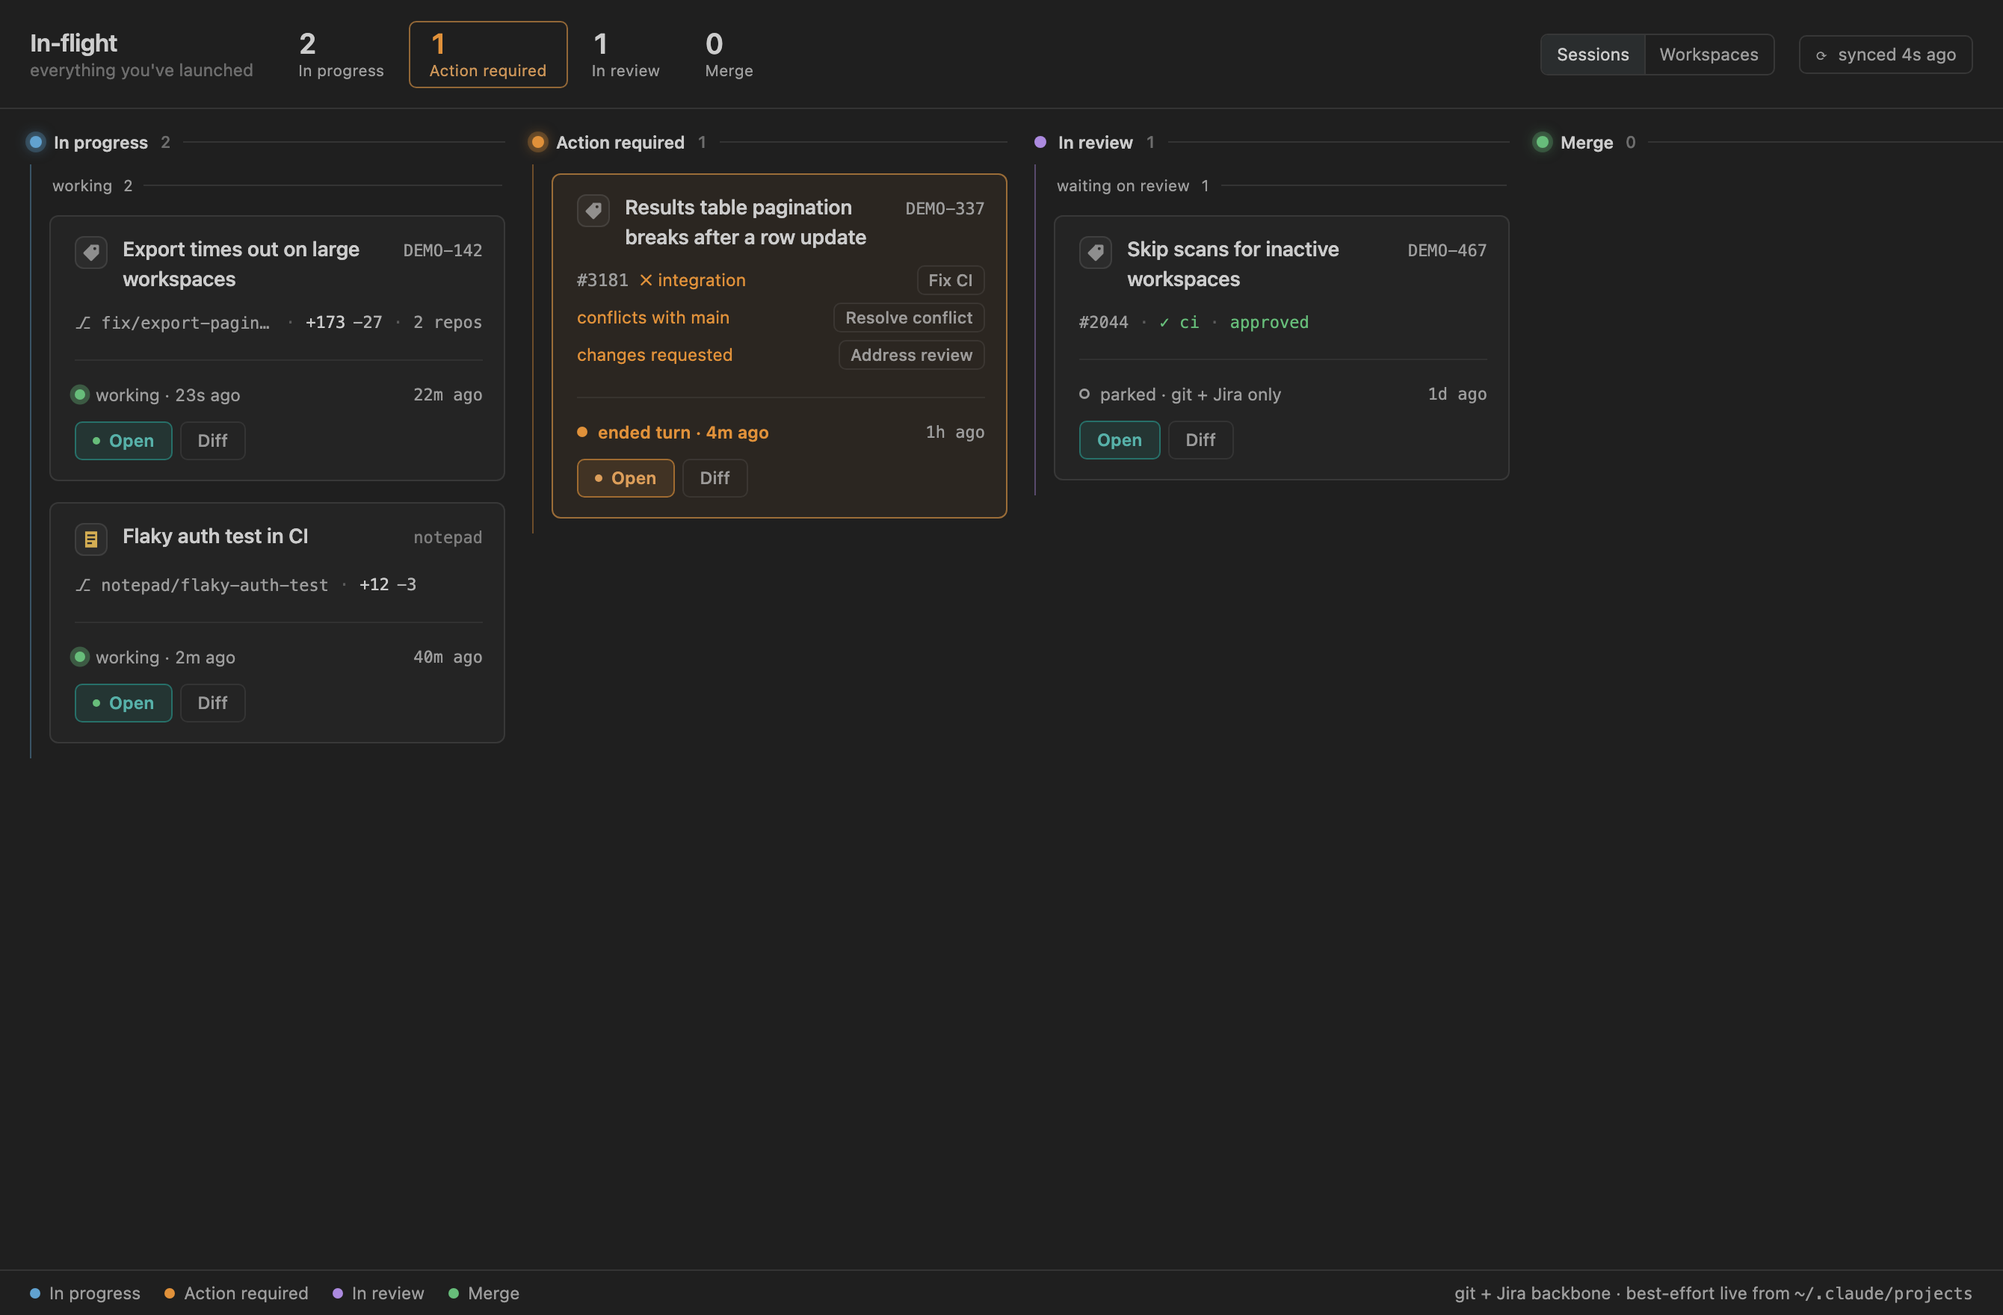
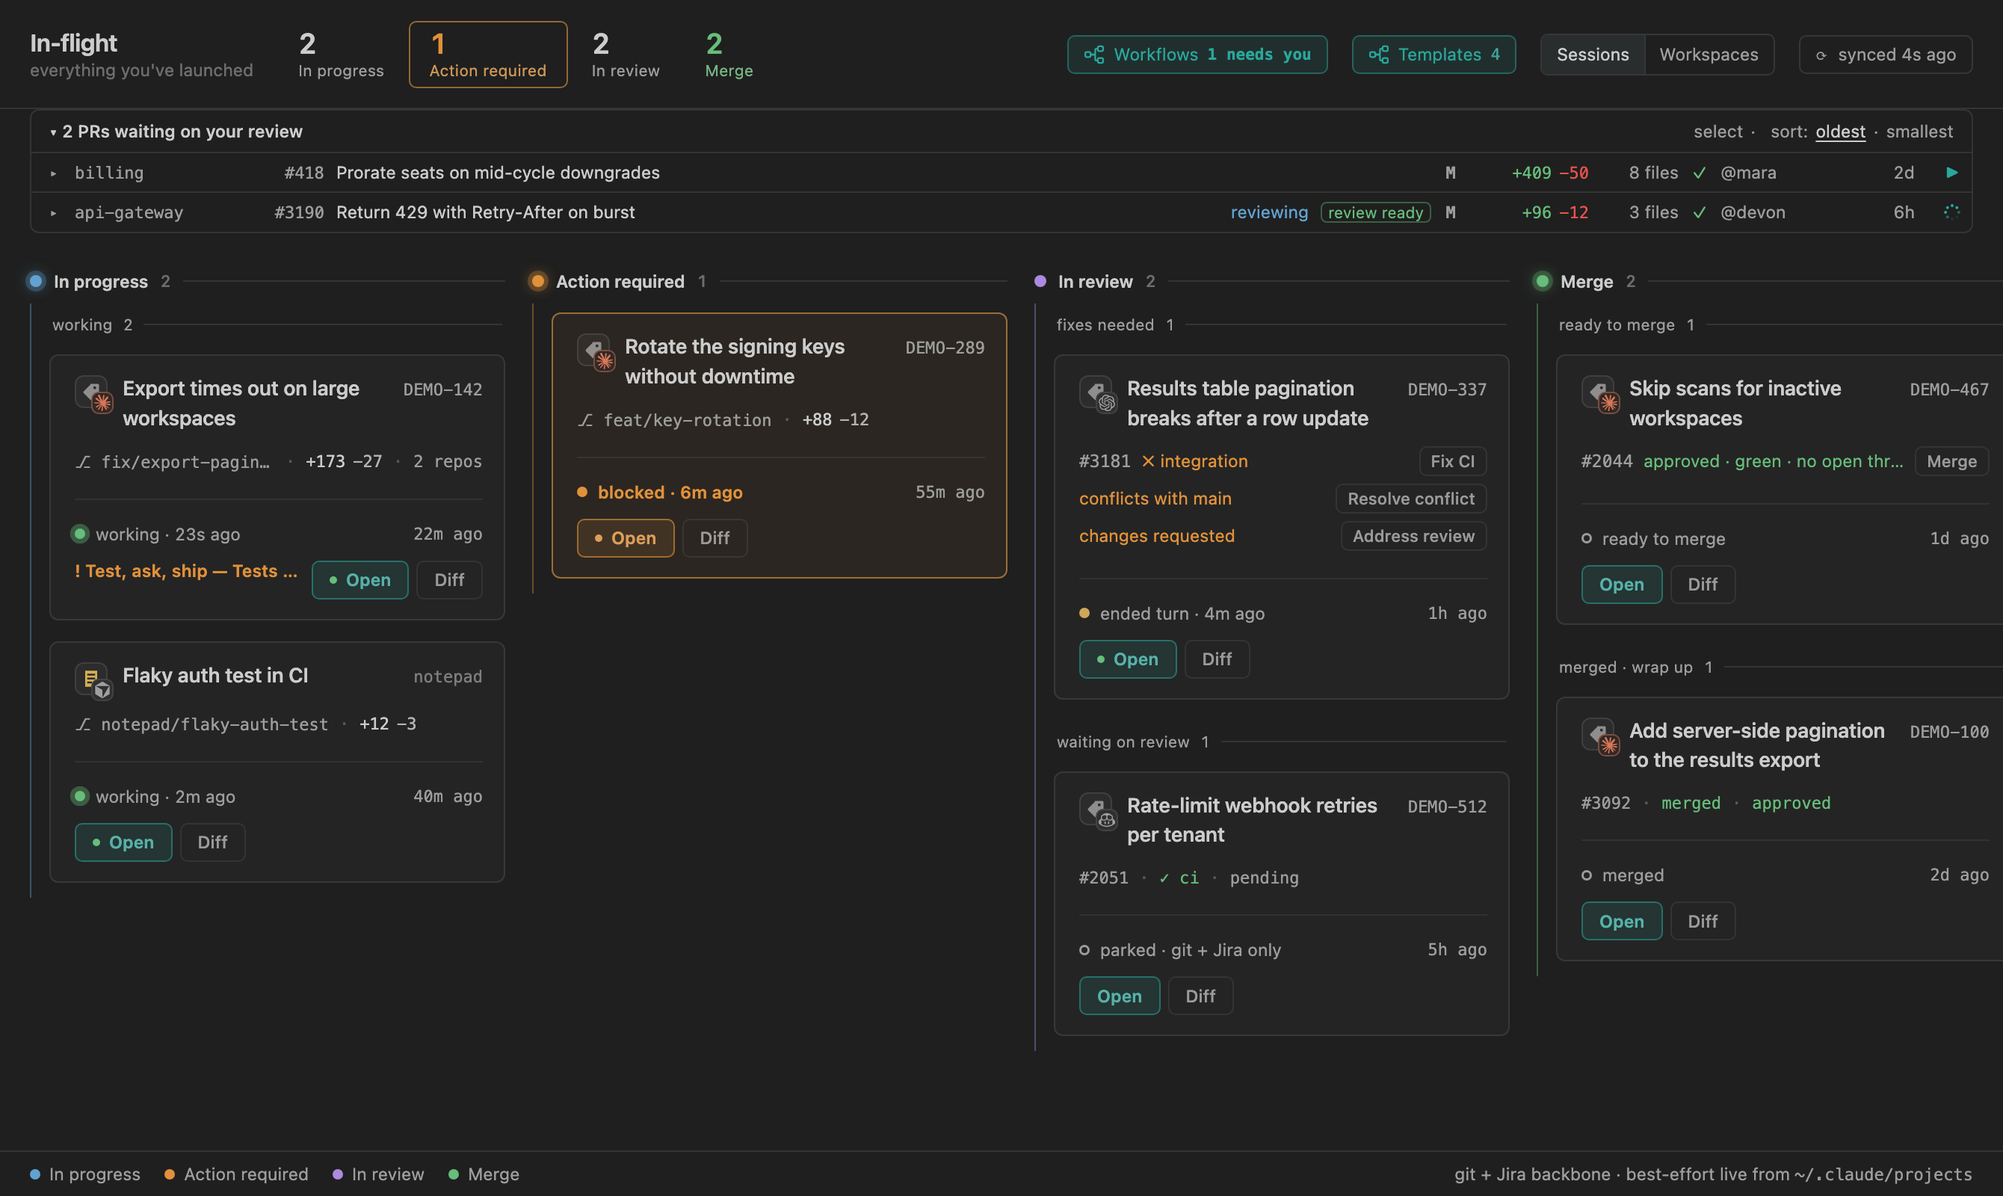
docs: re-shoot the README screenshots and show what the extension does today
The four screenshots predated Workflows, tool marks on cards, the review
queue's play button, Merge from a card and the Action required column's new
meaning. All are re-shot from the current build; the Deck's now shows the
review queue and a card carrying a workflow, and media/workflow.png shows a
card drawer stopped at a gate with Approve and Reject.

The README gains a "What you can do" list, a Workflows section, and names
Codex, Agile Accelerator and Bitbucket beside Claude Code, Jira and GitHub.
The settings table adds taskSource and orchestrator. No behaviour changes.

diff --git a/README.md b/README.md
@@ -6,8 +6,9 @@
   <img src="media/logo-neutral.png" alt="Agent Flow Deck" width="280">
 </picture>
 
-<p><strong>A task pool in your sidebar.</strong> Take a Jira ticket and it opens the repos
-that ticket touches, with a coding tool already briefed — Claude Code, Copilot, or Cursor.</p>
+<p><strong>Run your coding sessions like a fleet.</strong> Take a ticket and the repos it touches
+open with Claude Code, Copilot, Cursor or Codex already briefed. Watch every session, PR and
+review on one board — and let a workflow test, ask and notify while you work on the next one.</p>
 
 [![CI](https://github.com/oznasi1/agent-flow/actions/workflows/ci.yml/badge.svg)](https://github.com/oznasi1/agent-flow/actions/workflows/ci.yml)
 [![VS Marketplace version](https://img.shields.io/github/package-json/v/oznasi1/agent-flow?label=VS%20Marketplace&color=007ACC)](https://marketplace.visualstudio.com/items?itemName=Oznasi1.oznasi1-agent-flow)
@@ -20,36 +21,60 @@ that ticket touches, with a coding tool already briefed — Claude Code, Copilot
 
 [Quick start](#quick-start) · [Full guide](docs/GUIDE.md) · [Settings](docs/SETTINGS.md) · [Privacy](docs/PRIVACY.md) · [Changelog](CHANGELOG.md) · [Report an issue](#feedback)
 
-<img src="media/screenshot.png" alt="The Agent Flow Deck panel in the VS Code sidebar: a Tasks / Notepad tab bar, segmented task, size and status lenses, a repo multiselect and a title search, then task cards with per-card Take and Address PR actions." width="420" />
+<img src="media/screenshot.png" alt="The Agent Flow Deck panel in the VS Code sidebar: a Tasks / Notepad tab bar with an Explore button and an open-window gauge, segmented sprint, size and status lenses, a repo filter and a title-or-ticket search, then task cards with per-card Take and Address PR actions." width="420" />
 
 </div>
 
 ---
 
-Agent Flow Deck turns *"what should I work on?"* into a workspace with a session already primed.
+Agent Flow Deck turns *"what should I work on?"* into a workspace with a session already primed,
+and *"what is everything doing?"* into one board.
 
-Pick a Jira task → it infers which repos the task touches → opens them as a workspace →
+Pick a task → it infers which repos the task touches → opens them as a workspace →
 seeds a task brief and pre-fills your session with the plan. You land ready to orchestrate,
-not ready to set up.
+not ready to set up. Then the Deck keeps every launched session, its diff, its PR and its
+CI in view, and a workflow can carry a card from "tests are green" to "ask me before the PR"
+without you watching it.
 
-Which tool is your choice — **Claude Code** by default, **GitHub Copilot** in VS Code,
-**Cursor's** own agent in Cursor, or `ask` to pick per launch
-(`agentFlow.agentProvider`). Your pull requests can come from **GitHub** or **GitLab**
-(`agentFlow.forge`).
+## What you can do
+
+- **Take a ticket into a primed session** — from Jira or Salesforce Agile Accelerator
+  (`agentFlow.taskSource`), with the repos already selected and the brief on disk.
+- **Pick your tool per install or per launch** — Claude Code, GitHub Copilot, Cursor, or the
+  OpenAI Codex CLI; `ask` chooses each time (`agentFlow.agentProvider`).
+- **Launch several tasks in parallel**, each in its own git worktree and branch, as separate
+  windows or tabs in one.
+- **Work from a note, not a ticket** — the Notepad starts a session from a line of text and a
+  pasted screenshot.
+- **See the whole fleet on the Deck** — In progress · Action required · In review · Merge, each
+  card with its live session state, diff, PR, CI and ticket status, and the tool driving it.
+- **Act from the card** — Fix CI, Resolve conflict, Address review, and (opt-in) Merge a
+  provably green PR, each behind a confirmation.
+- **Clear your review queue** — every PR waiting on you, with **Review with Claude Code** (or
+  your tool) on each row, or hand a batch of them to sessions in one gesture.
+- **Attach a workflow to a card** — test when the session ends its turn, ask you at a gate,
+  notify when it's merged, with deadlines, retries and a spend ceiling. Off by default.
+- **Browse everything Claude Code can do here** — the Marketplace searches your skills, slash
+  commands, agents, hooks and plugins and renders each one's file.
+- **Keep it yours** — GitHub, GitLab or Bitbucket via your own CLI login; Jira credentials in
+  SecretStorage; read-only unless you press a button that says otherwise.
 
 ## What it does
 
 ### Tasks — the pool
 
-Your Jira project as a filterable pool: **My sprint · Unassigned · Mine · Sprint ·
-Backlog**, with a size lens and a fuzzy title search. Click a card and the repos the
-ticket touches are already selected — read from its components, labels and text, matched
-against your local checkouts. Press **▶ Take** and Agent Flow Deck writes a
+Your project as a filterable pool: **My sprint · Unassigned · Mine · Sprint · Backlog**
+(only the lenses your task source has), with a size lens, a status lens, a repo filter and
+a fuzzy search that also takes a ticket number or a pasted ticket link. Click a card and
+the repos the ticket touches are already selected — read from its components, labels and
+text, matched against your local checkouts. Press **▶ Take** and Agent Flow Deck writes a
 `.pick-task/TASK.md` brief into each repo, generates a workspace, and pre-fills your
 session with the prompt; you press Enter.
 
 Tick several cards and **Launch in parallel** gives every task its own git worktree and
-branch, either in separate windows or stacked as tabs in one.
+branch, either in separate windows or stacked as tabs in one. **Explore** opens a session
+with no ticket at all, and the list can refetch itself on a timer
+(`agentFlow.refetchIntervalMinutes`).
 
 ### Notepad — work that never had a ticket
 
@@ -65,21 +90,51 @@ session reads what you saw instead of your description of it.
 
 ### Deck — the in-flight board
 
-<img src="media/deck.png" alt="The Agent Flow Deck: a four-column in-flight board (In progress, Action required, In review, Merge) with counts in the header, a Sessions / Workspaces lens and a refresh. Each card shows its branch, per-repo diff stats, a live session status, PR and CI state, Jira status, and Open / Diff actions." />
+<img src="media/deck.png" alt="The Agent Flow Deck: a review queue of two pull requests waiting on your review with a Review with Claude Code play button, above a four-column in-flight board (In progress, Action required, In review, Merge). Each card shows the tool driving it, its branch, diff stats, live session status, PR and CI state, and Open / Diff actions; one carries a workflow chip, one a Merge button, and the header holds Workflows and Templates buttons." />
 
 Everything you've launched, in a pipeline — **In progress · Action required · In review ·
 Merge**, attention rising left to right. Each card carries the live state: what its session
-is doing right now (read from Claude Code's own transcripts), the diff, the PR with its CI
-and review decision, and the Jira status. The two kinds of "you're needed" stay apart:
-**Action required** means a session stopped and is asking you, while a PR with red CI,
-requested changes or a conflict lands in **In review**'s `fixes needed` lane. **Open**
-focuses that window if it's already open; **Diff** shows the working tree.
+is doing right now (read from Claude Code's own transcripts), which tool is driving it, the
+diff, the PR with its CI and review decision, and the ticket status. The two kinds of
+"you're needed" stay apart: **Action required** means a session stopped and cannot resume
+on its own, while a PR with red CI, requested changes or a conflict lands in **In review**'s
+`fixes needed` lane with **Fix CI**, **Resolve conflict** and **Address review** right on
+the card. A PR that is approved, green and mergeable reaches **Merge**, and with
+`agentFlow.mergeWrites` on, a **Merge** button that only appears when every fact is
+provably green. **Open** focuses that window if it's already open; **Diff** shows the
+working tree. The activity-bar icon badges how many sessions are waiting on you, and
+`agentFlow.notifyOnActionRequired` turns that into a notification.
 
 Above the columns sits your **review queue**: every open PR waiting on your review, sorted
 by oldest or smallest, with **Review with …** (the button names your configured tool, so it
-reads **Review with Claude Code**, **Review with Cursor**, or **Review with Copilot**) — a
-play button on every row, no need to open it — to check one out and have the diff read
-for you.
+reads **Review with Claude Code**, **Review with Cursor**, **Review with Copilot** or
+**Review with Codex**) — a play button on every row — to check one out in a worktree and
+have the diff read for you. **Select** several and hand them all to sessions at once; a
+`review ready` chip says whose findings are waiting to be read.
+
+### Workflows — let the board act for you
+
+<img src="media/workflow.png" alt="A Deck card's detail drawer with its Workflow block open: the workflow Test, ask, ship is two of three steps in and waiting on you. Step one, the session ended its turn, ran npm test with an Output button; step two, the command succeeded, asked the gate Tests are green — open a PR?; step three waits for your answer with Approve and Reject buttons. Below it the card's branch, per-repo diffs, pull requests and two live sessions." />
+
+Off by default (`agentFlow.orchestrator`), because an armed workflow eventually starts
+sessions and runs commands on its own. Turn it on and every card gets a drawer where you
+attach a **workflow**: a small graph of rules, each waiting on a condition — the session
+ended its turn, CI passed, the PR merged, a command succeeded or printed a given text, the
+tree is clean, the ticket is done — and each doing whatever the node it points at says:
+**launch** a planned session in a fresh worktree, **seed** a second session into an
+existing one, **run** a shell command, **notify** you in the editor, **ask** you at a gate
+with Approve and Reject, or start a saved template as a **subflow**.
+
+Three starters ship built in — **Ship it**, **Test & notify**, **Review only** — and anything
+you draw can be saved as a **template** and attached to the next card in one click. A rule
+can carry a deadline (**WITHIN**) and an opt-in **RETRY**; a whole workflow can carry a
+**spend ceiling** in sessions and commands, or a **token ceiling**; a **dry run** says what
+would fire before you arm it. A gate can also post its question on the card's pull request
+and take the answer from whoever you named there. A workflow asks before its first launch
+and before each distinct command, then runs unattended, and **Schedule the Orchestrator
+Tick…** keeps it watching with the editor closed. The full rulebook is in
+[docs/GUIDE.md](docs/GUIDE.md#the-deck--your-in-flight-board) and
+[docs/ORCHESTRATOR_COMMANDS.md](docs/ORCHESTRATOR_COMMANDS.md).
 
 ### Marketplace — everything Claude Code can do here
 
@@ -90,9 +145,9 @@ plugins you've installed, and the skills, slash commands, agents and hooks insid
 plus whatever you wrote yourself. Search is fuzzy (`revw` finds `/review`), and selecting a
 row renders its file so you can read what something does without opening it.
 
-**More:** the [full guide](docs/GUIDE.md) covers the Deck's Orchestrator drawer, run
-retirement, tracking Claude Code sessions Agent Flow Deck didn't launch, per-task worktrees,
-prompt modes, and Remote Control.
+**More:** the [full guide](docs/GUIDE.md) covers run retirement, tracking Claude Code
+sessions Agent Flow Deck didn't launch, per-task worktrees, prompt modes, child worktrees for
+a ticket with sub-tasks, and Remote Control.
 
 ## Quick start
 
@@ -104,54 +159,59 @@ prompt modes, and Remote Control.
    or **⋯ → Install from VSIX…** in the Extensions view.
 2. **Install a coding tool** — the
    [Claude Code extension](https://marketplace.visualstudio.com/items?itemName=anthropic.claude-code),
-   or GitHub Copilot with `agentFlow.agentProvider: copilot`. With neither, the task brief
-   is still written as a fallback.
+   GitHub Copilot (`agentFlow.agentProvider: copilot`), Cursor's own agent (`cursor`), or the
+   OpenAI Codex CLI (`codex`). With none, the task brief is still written as a fallback.
 3. **Open the Agent Flow Deck icon** in the activity bar and complete the setup — your Jira
    site, project key, and repos directory, then an
    [Atlassian API token](https://id.atlassian.com/manage-profile/security/api-tokens).
-   (Re-run it anytime with **"Run Setup…"**.)
+   (Re-run it anytime with **"Run Setup…"**; Agile Accelerator users set
+   `agentFlow.taskSource` instead — see [docs/CONNECTORS.md](docs/CONNECTORS.md).)
 4. **Pick a task**, check the inferred repos, and press **▶ Take**.
 5. **Land in a primed workspace** — brief on disk, prompt pre-filled. Press **Enter**.
 
 ## Requirements
 
 - **VS Code** (or Cursor) `^1.90.0`.
-- A **coding tool** for the seed — the Claude Code extension, or Copilot in VS Code.
-  Optional: the brief is the guaranteed fallback.
+- A **coding tool** for the seed — the Claude Code extension, Copilot in VS Code, Cursor's
+  agent in Cursor, or the Codex CLI on your PATH. Optional: the brief is the guaranteed
+  fallback.
 - An **Atlassian API token** for your Jira Cloud account
-  ([create one](https://id.atlassian.com/manage-profile/security/api-tokens)).
-- Your **forge's CLI**, signed in — `gh` for GitHub, or `glab` when `agentFlow.forge`
-  is `gitlab`. Optional, for the Deck's PR/CI state and review queue; without it the
-  Deck falls back to git + Jira. See [docs/FORGES.md](docs/FORGES.md) for what GitLab
-  cannot answer.
+  ([create one](https://id.atlassian.com/manage-profile/security/api-tokens)), or an
+  Agile Accelerator login for that source.
+- Your **forge's CLI**, signed in — `gh` for GitHub, `glab` for GitLab, or `atlassian-cli`
+  for Bitbucket Cloud (`agentFlow.forge`). Optional, for the Deck's PR/CI state and review
+  queue; without it the Deck falls back to git + your task source. See
+  [docs/FORGES.md](docs/FORGES.md) for what GitLab and Bitbucket cannot answer.
 
 ## Settings
 
-The eight that matter to start. The rest are in the Settings UI under `agentFlow`, and
+The ten that matter to start. The rest are in the Settings UI under `agentFlow`, and
 documented in [docs/SETTINGS.md](docs/SETTINGS.md).
 
 | Setting | Default | Notes |
 |---------|---------|-------|
+| `agentFlow.taskSource` | `jira` | Where tasks come from: `jira` or `agileAccelerator`. |
 | `agentFlow.jira.baseUrl` | `""` | Your Jira Cloud site, e.g. `https://your-org.atlassian.net`. |
 | `agentFlow.jira.project` | `""` | Jira project key, e.g. `ABC`. |
 | `agentFlow.reposRoot` | `~/projects` | Where your repo checkouts live. |
-| `agentFlow.agentProvider` | `claude-code` | Which tool starts a session: `claude-code`, `copilot` (VS Code only), `cursor` (Cursor only), or `ask` to pick per launch. |
+| `agentFlow.agentProvider` | `claude-code` | Which tool starts a session: `claude-code`, `copilot` (VS Code only), `cursor` (Cursor only), `codex` (its CLI, any editor), or `ask` to pick per launch. |
 | `agentFlow.agentSurface` | `extension` | The tool's chat panel, or `terminal` for its CLI. |
-| `agentFlow.forge` | `github` | Where your pull requests live: `github` (via `gh`) or `gitlab` (via `glab`). |
+| `agentFlow.forge` | `github` | Where your pull requests live: `github` (via `gh`), `gitlab` (via `glab`) or `bitbucket` (via `atlassian-cli`). |
 | `agentFlow.openIn` | `ask` | Where a task opens: a new window, this one, or an existing workspace. |
 | `agentFlow.notifyOnActionRequired` | `false` | Notify when a run enters Action required, once until it's answered and parks again. |
+| `agentFlow.orchestrator` | `false` | Show Workflows and Templates on the Deck. Off until you turn it on, because an armed workflow acts on its own. |
 
 ## Privacy
 
-Agent Flow Deck talks to **your** Jira site, reads your **local** checkouts, and reads
-your forge through your **existing** `gh` (or `glab`) login — nothing about your tickets, code or repos
-goes anywhere that isn't already yours. Jira credentials live in VS Code
+Agent Flow Deck talks to **your** task source, reads your **local** checkouts, and reads
+your forge through your **existing** `gh`, `glab` or `atlassian-cli` login — nothing about
+your tickets, code or repos goes anywhere that isn't already yours. Jira credentials live in VS Code
 **SecretStorage**, never in `settings.json`. Both are **read-only by default** — the only
 writes are ones you trigger yourself: a Jira status change from a card; with
 `agentFlow.reviewWrites` on (it ships off), a review submitted from the Deck behind a
 confirmation dialog; or, with `agentFlow.mergeWrites` on (off too), a provably green pull
-request merged from its card behind one. Briefs go in a git-excluded `.pick-task/`, so they
-never get committed.
+request merged from its card behind one; and a workflow's launches and shell commands,
+which ask first. Briefs go in a git-excluded `.pick-task/`, so they never get committed.
 
 Full disclosure: [docs/PRIVACY.md](docs/PRIVACY.md). Anonymous usage telemetry is separate
 and described below.
@@ -191,8 +251,8 @@ See [docs/TELEMETRY.md](docs/TELEMETRY.md) for the itemized disclosure.
 
 ## Status
 
-v1. See [CHANGELOG.md](CHANGELOG.md) for the release history. Deferred: OAuth web sign-in,
-cloning not-yet-checked-out repos, multi-project.
+v1, released several times a week. See [CHANGELOG.md](CHANGELOG.md) for the release
+history. Deferred: OAuth web sign-in, cloning not-yet-checked-out repos, multi-project.
 
 ## Support
 

diff --git a/CHANGELOG.md b/CHANGELOG.md
@@ -7,6 +7,18 @@ and this project adheres to [Semantic Versioning](https://semver.org/spec/v2.0.0
 
 ## [Unreleased]
 
+### Changed
+
+- **The README shows what the extension does today.** Its screenshots were taken
+  before the Workflows and Templates buttons, the tool mark on every card, the
+  review queue's play button, Merge from a card and the Action required column's
+  new meaning shipped. All four are re-shot from the current build, the Deck's
+  now shows the review queue and a card carrying a workflow, and a fifth —
+  `media/workflow.png` — shows a card's drawer stopped at a gate with Approve and
+  Reject. The text gains a **What you can do** list up front, a **Workflows**
+  section, and names Codex, Agile Accelerator and Bitbucket where it only named
+  Claude Code, Jira and GitHub before. No behaviour changes.
+
 ## [0.69.0] — 2026-09-06
 
 ### Added
